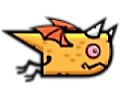
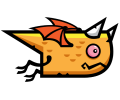
Se han modificado las imágenes añadiendo un TextureAtlas. Se ha añadido un FitViewPort para hacerlo responsive.

Changed region(s): [[0.0, 0.15, 1.0, 0.84], [0.525, 0.54, 0.675, 0.63]]

diff --git a/core/src/com/horizontal/birdgame/Begin.java b/core/src/com/horizontal/birdgame/Begin.java
@@ -8,8 +8,11 @@ import com.badlogic.gdx.graphics.OrthographicCamera;
 import com.badlogic.gdx.graphics.Texture;
 import com.badlogic.gdx.graphics.g2d.Animation;
 import com.badlogic.gdx.graphics.g2d.SpriteBatch;
+import com.badlogic.gdx.graphics.g2d.TextureAtlas;
 import com.badlogic.gdx.graphics.g2d.TextureRegion;
 import com.badlogic.gdx.math.Vector2;
+import com.badlogic.gdx.utils.viewport.FitViewport;
+import com.badlogic.gdx.utils.viewport.Viewport;
 
 public class Begin extends ApplicationAdapter {
 	SpriteBatch batch; //util para dibujar la misma textura en diferentes posiciones (mejora de rendimiento)
@@ -19,8 +22,7 @@ public class Begin extends ApplicationAdapter {
 								//se necesite una proyeccion Ortografica, es decir, donde no haya punto de fuga, por lo
 								//que todos los elementos se encuentran en la misma escala, da igual donde nos encontremos.
 								//Tambien realiza todas las operaciones para la vista automaticamente.
-	Texture background;
-	TextureRegion terrainBelow, terrainAbove;
+	TextureRegion background, terrainBelow, terrainAbove;
 	float terrainOffset;
 	Animation pajaro;
 	float pajaroAnimTime;
@@ -29,6 +31,8 @@ public class Begin extends ApplicationAdapter {
 	Vector2 planeDefaultPosition= new Vector2();
 	Vector2 gravity= new Vector2();
 	private static final Vector2 damping = new Vector2(0.99f,0.99f); //funciona friccion para reducir la velocidad del pajaro
+
+	Viewport viewport; //se utiliza para hacer responsive la palicacion en diferentes resoluciones y tamaños de pantalla
 
 	@Override
 	public void create () {
@@ -42,20 +46,27 @@ public class Begin extends ApplicationAdapter {
 			float h = Gdx.graphics.getHeight();
 			cam = new OrthographicCamera(30, 30 * (h / w));
 		 */
-		camera.setToOrtho(false, 800, 480);
-		background = new Texture("background.png");
+		//camera.setToOrtho(false, 800, 480); //no hace falta esta linea, porque al implementar eñ VIewPort, la de abajo la sustituye
+		camera.position.set(400,240,0);
+		viewport = new FitViewport(800, 480, camera);
 
-		terrainBelow=new TextureRegion(new Texture("groundGrass.png"));
+		//Texturas empaquetadas
+		TextureAtlas atlas = new
+				TextureAtlas(Gdx.files.internal("HorizontalBirdgame.pack"));
+		//background = new Texture("background.png"); //no hace falta ya que se ha creado un texture Atlas
+		background = atlas.findRegion("background");
+		//terrainBelow=new TextureRegion(new Texture("groundGrass.png")); //no hace falta ya que se ha creado un texture Atlas
+		terrainBelow = atlas.findRegion("groundGrass");
 		terrainAbove=new TextureRegion(terrainBelow);
 		terrainAbove.flip(true, true); //convierte terrainAbove en terrainBelow dado la vuelta
 
-		//TODO arreglar el frame 2
-		pajaro = new Animation(0.2f, new TextureRegion(new Texture("PNG/Dragon Orange/1.png")),
-				new TextureRegion(new Texture("PNG/Dragon Orange/2.png")),
-				new TextureRegion(new Texture("PNG/Dragon Orange/3.png")),
-				new TextureRegion(new Texture("PNG/Dragon Orange/4.png"))); //crea una animacion rotando los frames cada X tiempo
+		pajaro = new Animation(0.2f, atlas.findRegion("1"),
+				atlas.findRegion("2"),
+				atlas.findRegion("3"),
+				atlas.findRegion("4")); //crea una animacion rotando los frames cada X tiempo
 		pajaro.setPlayMode(Animation.PlayMode.LOOP); //ya que la animacion es un bucle
 		pajaroAnimTime=0;
+
 
 
 		resetScene();
@@ -124,5 +135,13 @@ public class Begin extends ApplicationAdapter {
 		batch.draw(terrainAbove, terrainOffset + terrainAbove. getRegionWidth(), 480 - terrainAbove.getRegionHeight());
 		batch.draw((TextureRegion) pajaro.getKeyFrame(pajaroAnimTime), planePosition.x, planePosition.y);
 		batch.end();
+	}
+
+
+	//Sirve para que, al cambiar el tamaño de la ventana, el view port lo recoja y se actualice
+	@Override
+	public void resize (int width, int height)
+	{
+		viewport.update(width, height);
 	}
 }

diff --git a/jcoord/src/main/java/uk/me/jcoord/MyClass.java b/jcoord/src/main/java/uk/me/jcoord/MyClass.java
@@ -1,0 +1,4 @@
+package uk.me.jcoord;
+
+public class MyClass {
+}
